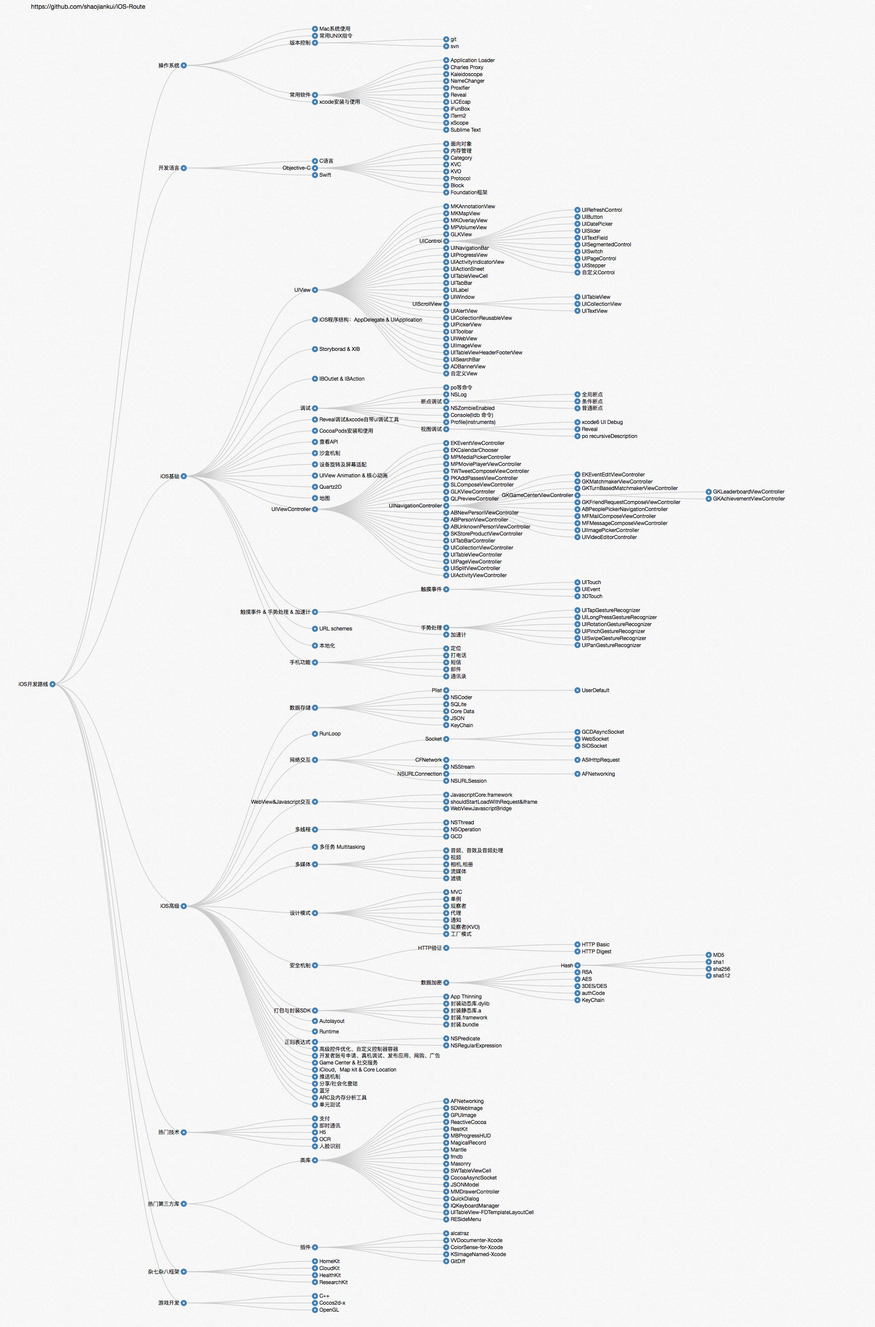
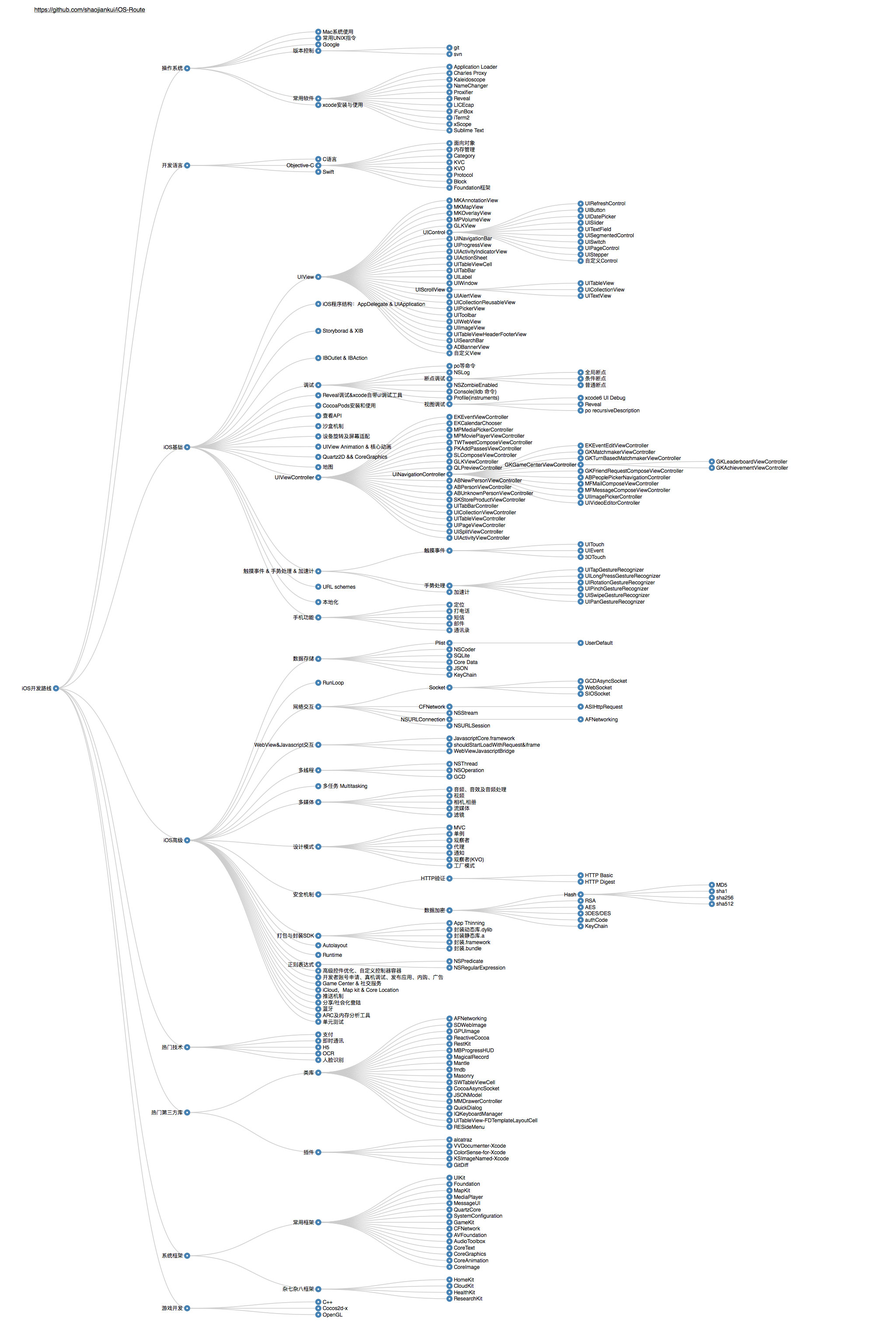
add ios sdk framework

diff --git a/route.html b/route.html
@@ -2,8 +2,6 @@
 <html>
   <head>
     <meta http-equiv="Content-Type" content="text/html;charset=utf-8"/>
-    
-    <link type="text/css" rel="stylesheet" href="style.css"/>
     <script type="text/javascript" src="d3.js"></script>
     <script type="text/javascript" src="d3.layout.js"></script>
     <style type="text/css">
